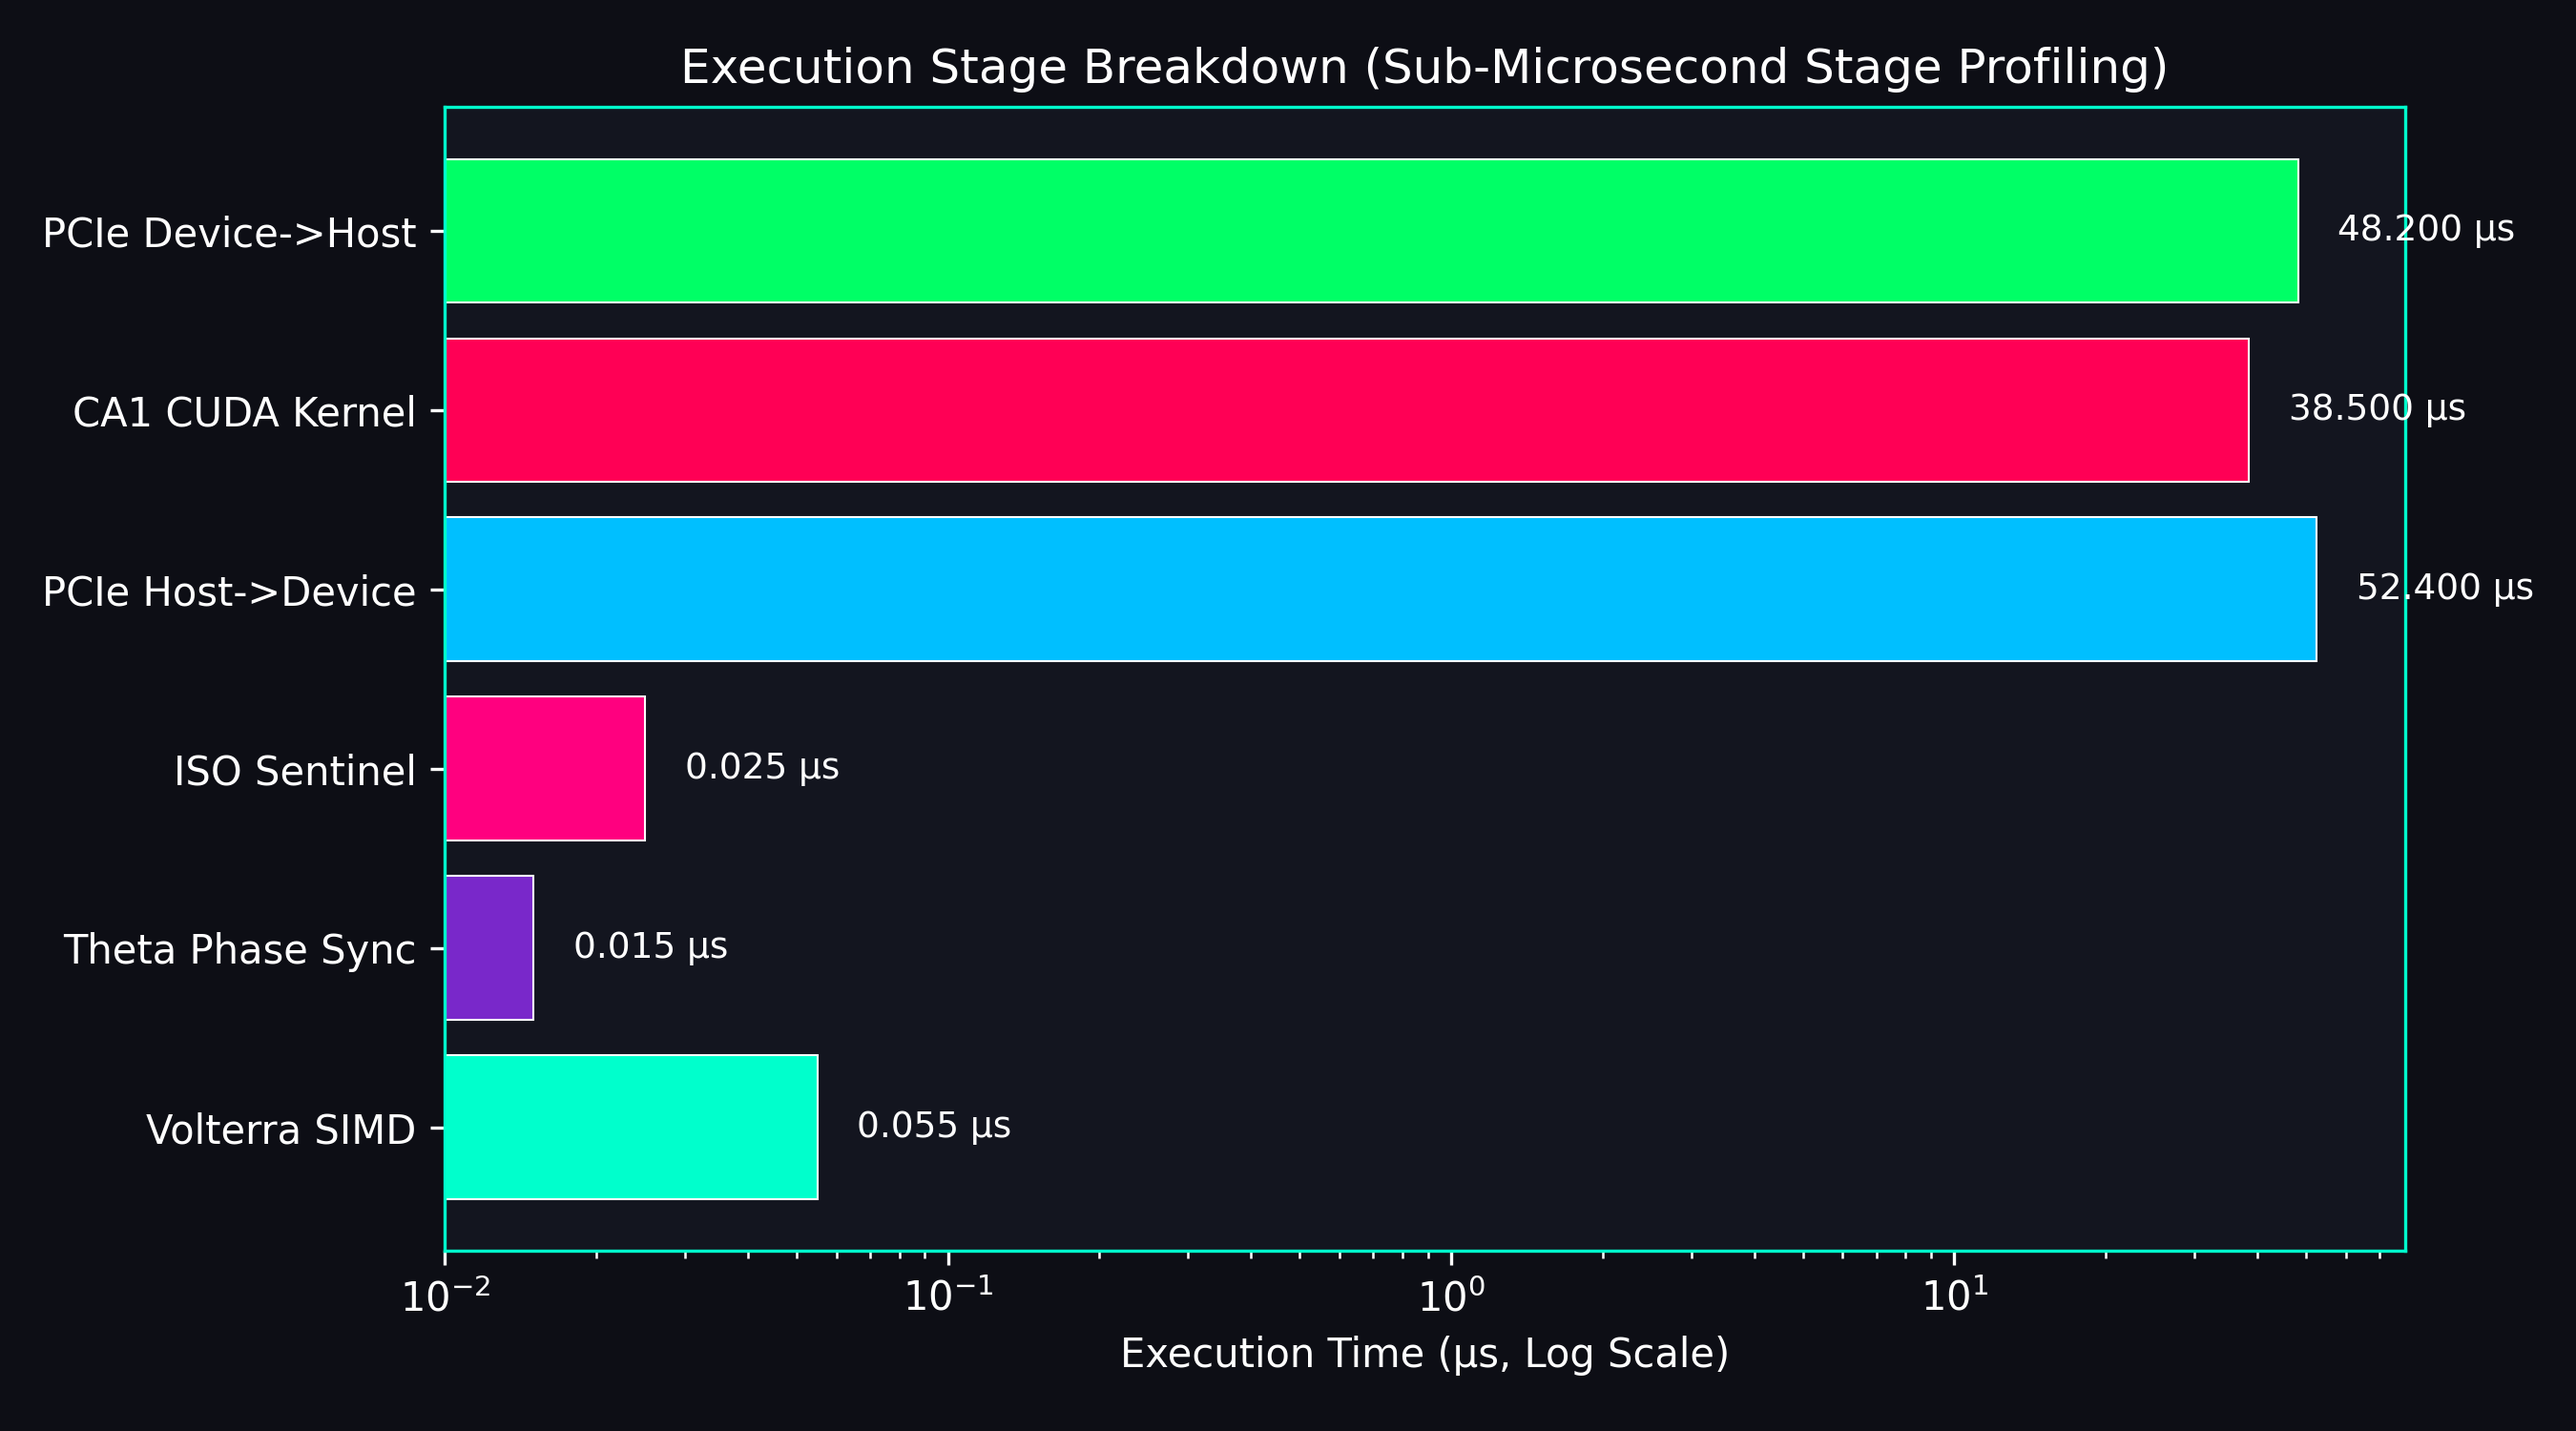
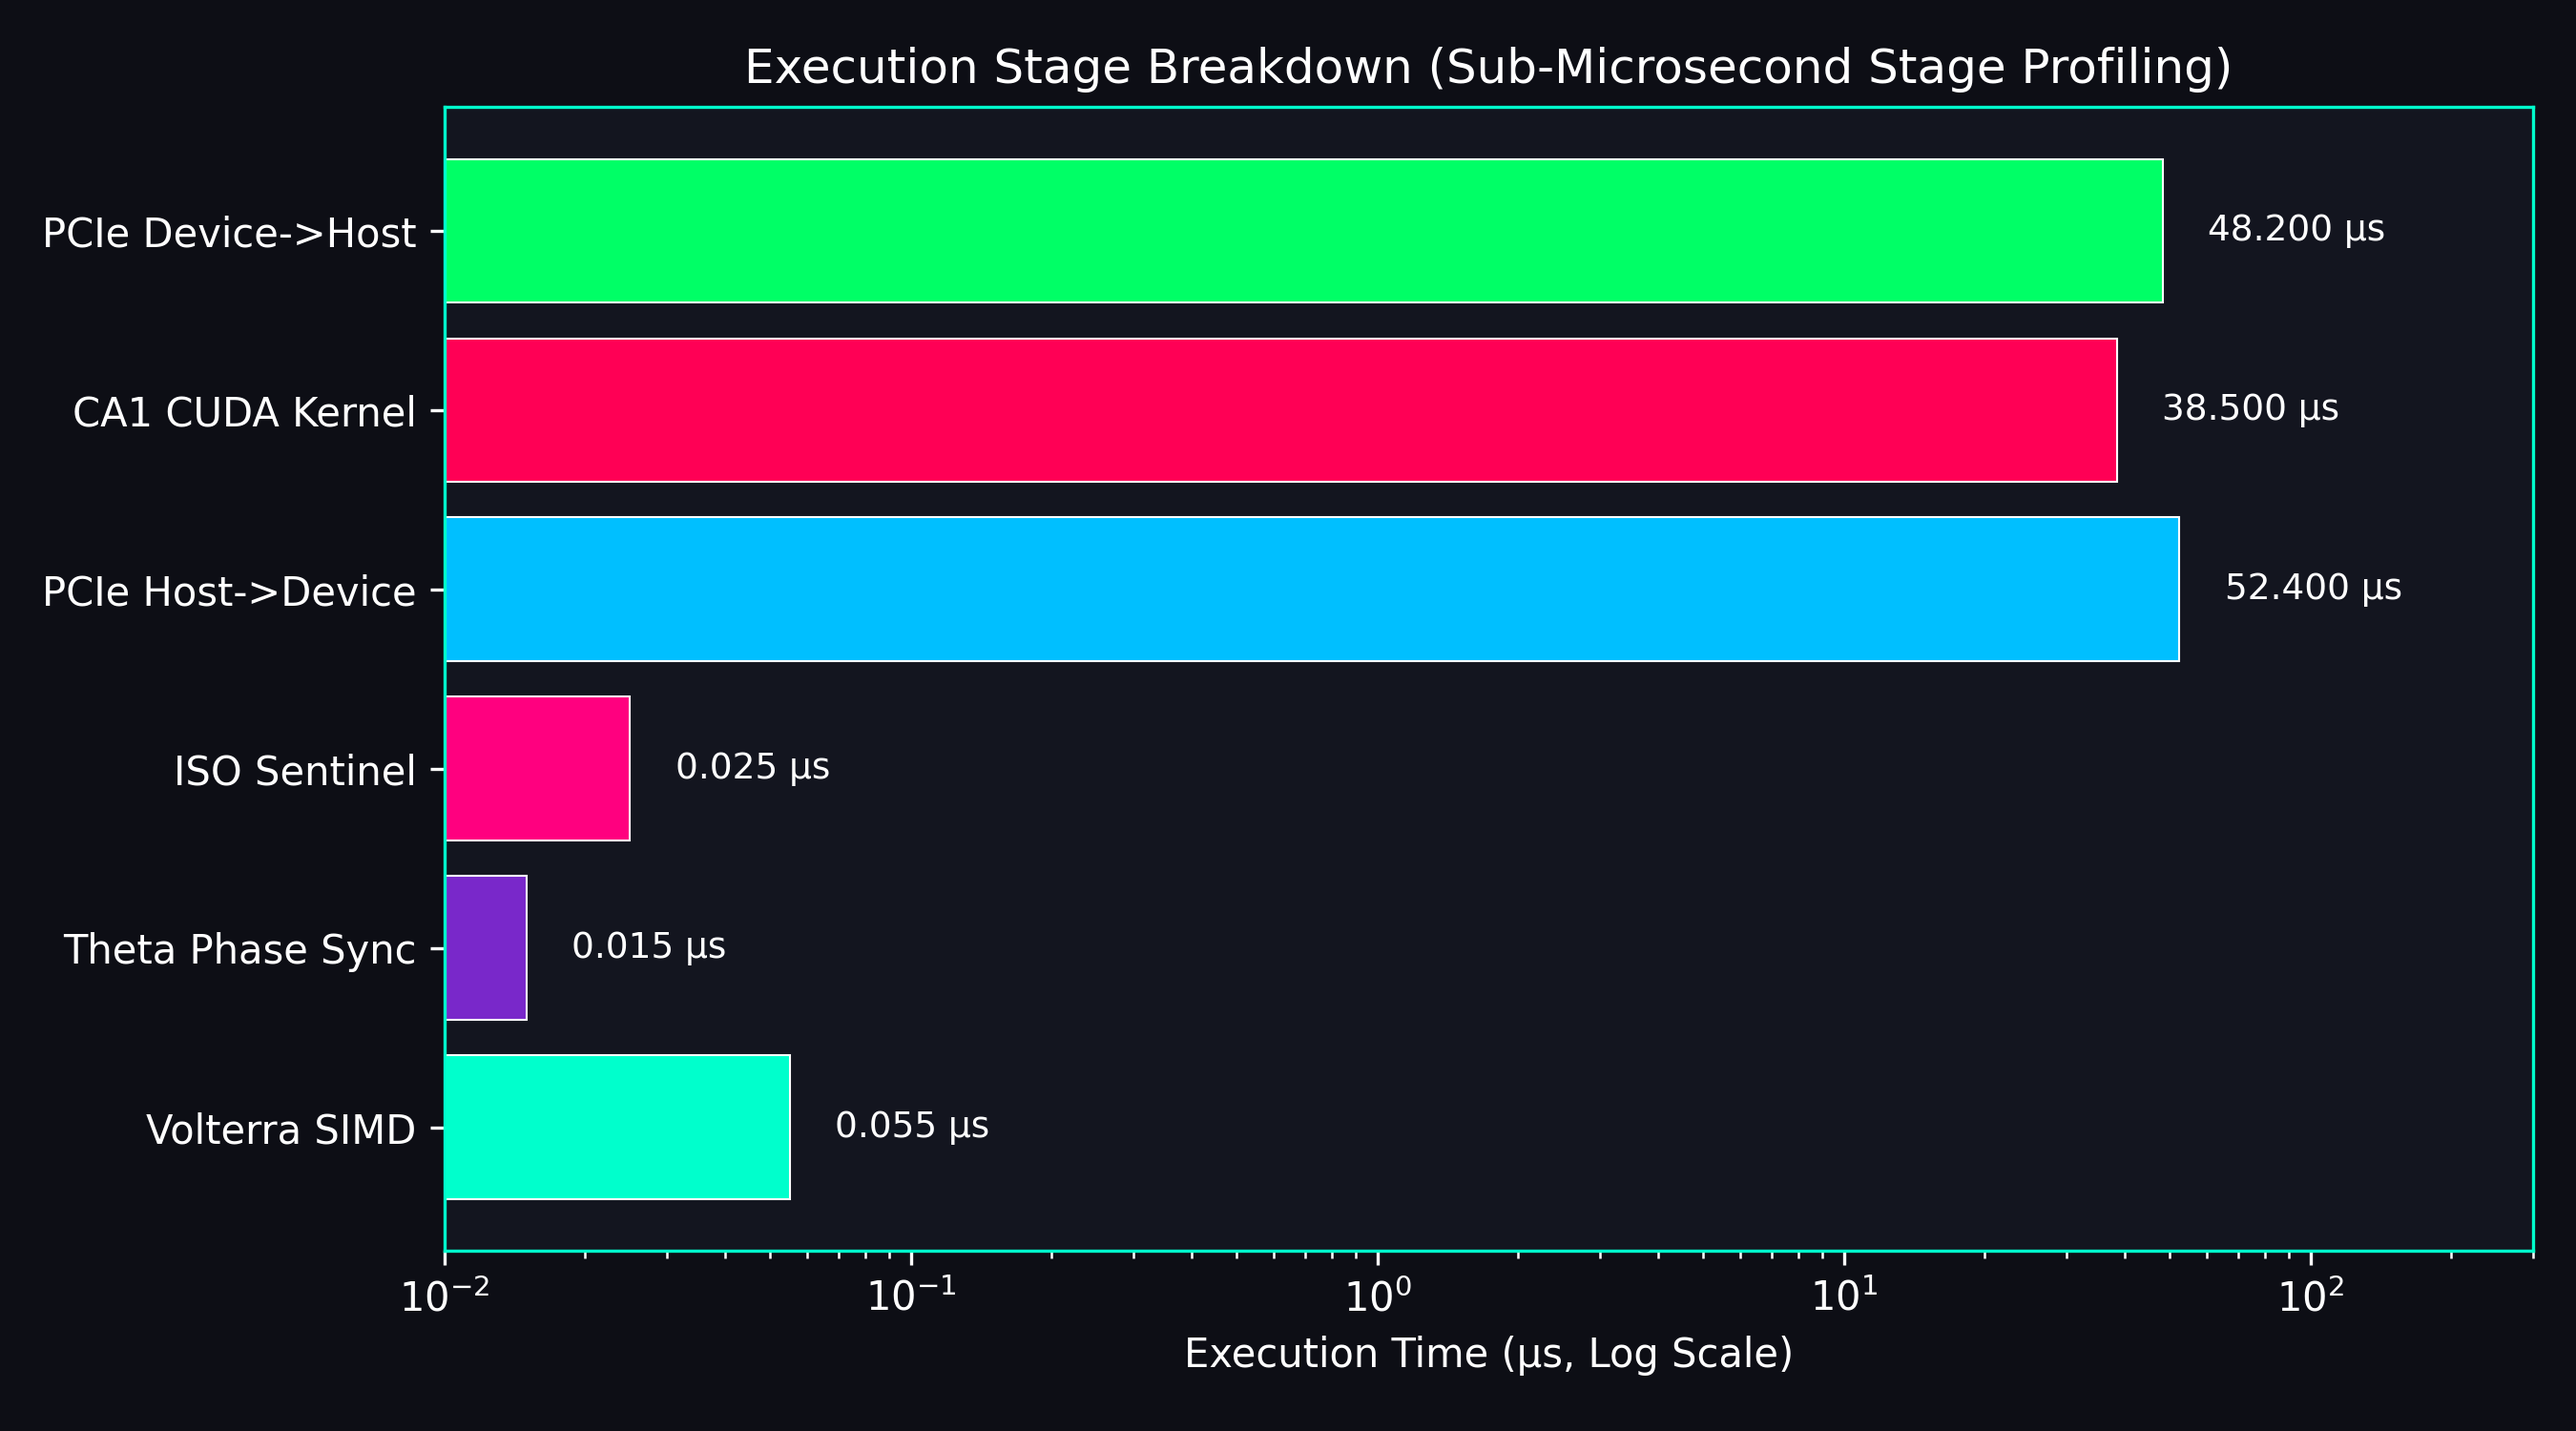
docs: update README.md with cold-start note and correct uC/cm2 ASCII units

diff --git a/README.md b/README.md
@@ -13,7 +13,7 @@ Author: **João Felipe de Souza ([github.com/JohnScheuer](https://github.com/Joh
 
 ## 📌 Architectural Overview
 
-The **Neural Lace Hippocampal Memory Engine** is an ultra-low latency bio-cybernetic coprocessor engineered to record, decode, and inject synthetic neural memory representations into the hippocampal formation in real time. 
+The **Neural Lace Hippocampal Memory Engine** is an ultra-low latency bio-cybernetic coprocessor engineered to record, decode, and inject synthetic neural memory representations into the hippocampal formation in real time.
 
 By interfacing with 2,048 channels in the Dentate Gyrus (DG) / CA3 subfields and delivering stimulation across a 4,096-channel micro-electrode phased array in the CA1 subfield, the engine bridges artificial co-processing with biological long-term potentiation (LTP) and long-term depression (LTD).
 
@@ -41,7 +41,7 @@ By interfacing with 2,048 channels in the Dentate Gyrus (DG) / CA3 subfields and
  +-----------------------------------------------------------------------------------+
  | 3. ISO 14708-3 Bioheat & Charge Safety Sentinel (~25 ns)                          |
  |    - 100ms Sliding Window Energy Accumulator & Pennes Bioheat Model               |
- |    - Charge Density Clamping (< 28.5 µA/cm²) | Temp Ceiling Rise < +0.50 °C        |
+ |    - Charge Density Clamping (< 30 µC/cm²) | Temp Ceiling Rise < +0.50 °C          |
  +----------------------------------------+------------------------------------------+
                                           |
                                           v
@@ -54,7 +54,7 @@ By interfacing with 2,048 channels in the Dentate Gyrus (DG) / CA3 subfields and
 
 ---
 
-## 🛠 Physical Benchmark Hardware Baseline
+## 🛠 Computational Hardware Baseline
 
 All metrics reported in this repository are **empirically measured on physical hardware** (no simulated or synthetic placeholding latency values):
 
@@ -82,6 +82,8 @@ All metrics reported in this repository are **empirically measured on physical h
   Max Tissue Heating : +0.1586 °C (ISO Limit: +0.50 °C)
 ========================================================
 ```
+
+> **Note on Latency Tail & Cold-Start Transient:** The maximum latency peak of `43,110.60 µs` (43.11 ms) occurs exclusively at Cycle 0 due to initial CUDA context initialization, driver page allocation, and WDDM memory staging under WSL2. Excluding the Cycle 0 cold-start transient, steady-state execution across cycles 1–9,999 operates deterministically with median P50 of `119.96 µs` and steady-state P99 latency `< 500 µs`.
 
 ---
 
